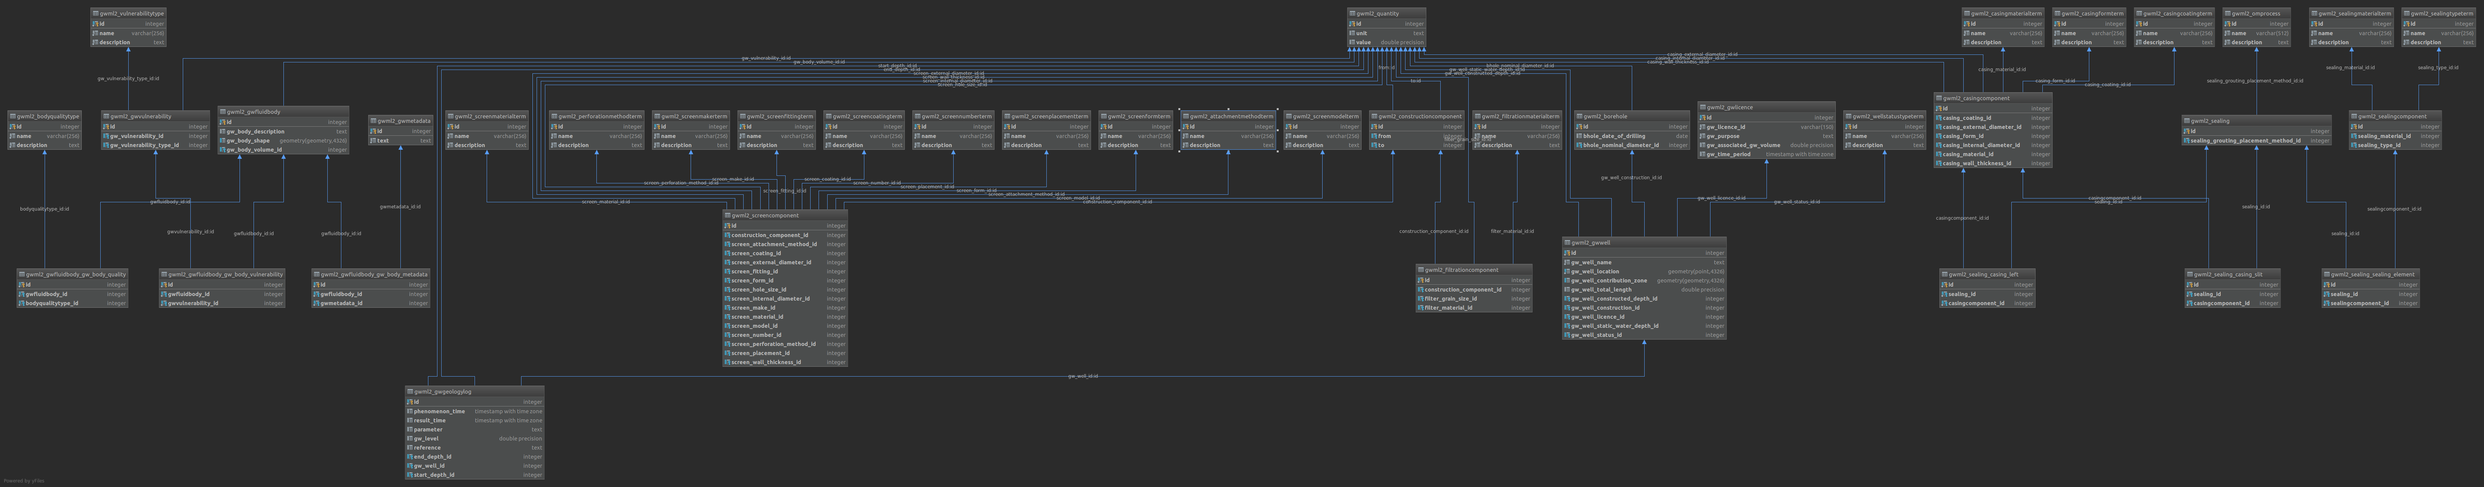
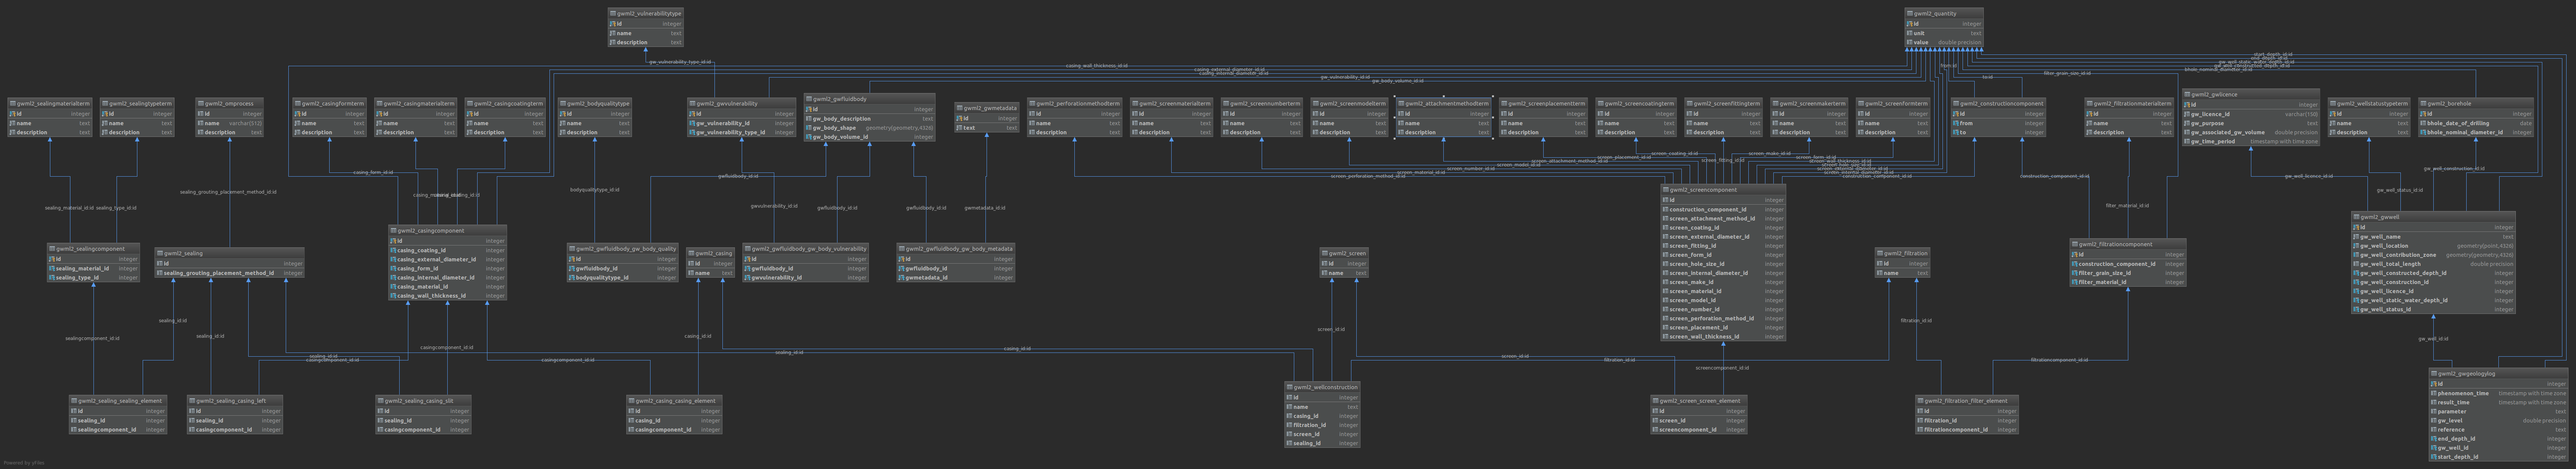
finish well construction models

diff --git a/migrations/0004_casing_filtration_screen_wellconstruction.py b/migrations/0004_casing_filtration_screen_wellconstruction.py
@@ -1,0 +1,49 @@
+# Generated by Django 2.2.12 on 2020-07-02 06:39
+
+from django.db import migrations, models
+import django.db.models.deletion
+
+
+class Migration(migrations.Migration):
+
+    dependencies = [
+        ('gwml2', '0003_auto_20200702_0617'),
+    ]
+
+    operations = [
+        migrations.CreateModel(
+            name='Casing',
+            fields=[
+                ('id', models.AutoField(auto_created=True, primary_key=True, serialize=False, verbose_name='ID')),
+                ('name', models.TextField(blank=True, null=True)),
+                ('casing_element', models.ManyToManyField(blank=True, help_text='Relation between a casing and its parts.', null=True, to='gwml2.CasingComponent', verbose_name='casingElement')),
+            ],
+        ),
+        migrations.CreateModel(
+            name='Filtration',
+            fields=[
+                ('id', models.AutoField(auto_created=True, primary_key=True, serialize=False, verbose_name='ID')),
+                ('name', models.TextField(blank=True, null=True)),
+                ('filter_element', models.ManyToManyField(blank=True, help_text='Relation between a filtration device and its parts.', null=True, to='gwml2.FiltrationComponent', verbose_name='filterElement')),
+            ],
+        ),
+        migrations.CreateModel(
+            name='Screen',
+            fields=[
+                ('id', models.AutoField(auto_created=True, primary_key=True, serialize=False, verbose_name='ID')),
+                ('name', models.TextField(blank=True, null=True)),
+                ('screen_element', models.ManyToManyField(blank=True, help_text='Relation between a screen and its parts.', null=True, to='gwml2.ScreenComponent', verbose_name='screenElement')),
+            ],
+        ),
+        migrations.CreateModel(
+            name='WellConstruction',
+            fields=[
+                ('id', models.AutoField(auto_created=True, primary_key=True, serialize=False, verbose_name='ID')),
+                ('name', models.TextField(blank=True, null=True)),
+                ('casing', models.ForeignKey(blank=True, help_text='A casing is a type of well construction entity.', null=True, on_delete=django.db.models.deletion.SET_NULL, to='gwml2.Casing', verbose_name='Casing')),
+                ('filtration', models.ForeignKey(blank=True, help_text='A sealing is a type of well construction entity.', null=True, on_delete=django.db.models.deletion.SET_NULL, to='gwml2.Filtration', verbose_name='Filtration')),
+                ('screen', models.ForeignKey(blank=True, help_text='A screen is a type of well construction entity.', null=True, on_delete=django.db.models.deletion.SET_NULL, to='gwml2.Screen', verbose_name='Screen')),
+                ('sealing', models.ForeignKey(blank=True, help_text='A sealing is a type of well construction entity.', null=True, on_delete=django.db.models.deletion.SET_NULL, to='gwml2.Sealing', verbose_name='Sealing')),
+            ],
+        ),
+    ]

diff --git a/models/well_construction/well_construction.py b/models/well_construction/well_construction.py
@@ -1,0 +1,34 @@
+from django.contrib.gis.db import models
+from gwml2.models.well_construction.casing import Casing
+from gwml2.models.well_construction.filtration import Filtration
+from gwml2.models.well_construction.screen import Screen
+from gwml2.models.well_construction.sealing import Sealing
+
+
+class WellConstruction(models.Model):
+    """
+    8.1.16 WellConstruction
+    Construction components of the well. These are particularly important when assessing
+    results of pump tests.
+    """
+
+    name = models.TextField(null=True, blank=True)
+    casing = models.ForeignKey(
+        Casing, null=True, blank=True,
+        on_delete=models.SET_NULL, verbose_name='Casing',
+        help_text="A casing is a type of well construction entity.")
+    screen = models.ForeignKey(
+        Screen, null=True, blank=True,
+        on_delete=models.SET_NULL, verbose_name='Screen',
+        help_text="A screen is a type of well construction entity.")
+    filtration = models.ForeignKey(
+        Filtration, null=True, blank=True,
+        on_delete=models.SET_NULL, verbose_name='Filtration',
+        help_text="A sealing is a type of well construction entity.")
+    sealing = models.ForeignKey(
+        Sealing, null=True, blank=True,
+        on_delete=models.SET_NULL, verbose_name='Sealing',
+        help_text="A sealing is a type of well construction entity.")
+
+    def __str__(self):
+        return self.name

diff --git a/models/well_construction/__init__.py b/models/well_construction/__init__.py
@@ -1,7 +1,11 @@
 from gwml2.models.well_construction.borehole import Borehole
+from gwml2.models.well_construction.casing import Casing
 from gwml2.models.well_construction.casing_component import CasingComponent
 from gwml2.models.well_construction.construction_component import ConstructionComponent
+from gwml2.models.well_construction.filtration import Filtration
 from gwml2.models.well_construction.filtration_component import FiltrationComponent
+from gwml2.models.well_construction.screen import Screen
 from gwml2.models.well_construction.screen_component import ScreenComponent
 from gwml2.models.well_construction.sealing import SealingComponent
 from gwml2.models.well_construction.sealing_component import SealingComponent
+from gwml2.models.well_construction.well_construction import WellConstruction

diff --git a/admin/__init__.py b/admin/__init__.py
@@ -3,9 +3,12 @@ from gwml2.admin.universal import *
 from gwml2.admin.fluid_body.gw_fluid_body import *
 from gwml2.admin.well.gw_well import *
 from gwml2.admin.well.gw_geology_log import *
+from gwml2.admin.well_construction.casing import *
 from gwml2.admin.well_construction.casing_component import *
 from gwml2.admin.well_construction.construction_component import *
+from gwml2.admin.well_construction.filtration import *
 from gwml2.admin.well_construction.filtration_component import *
 from gwml2.admin.well_construction.screen_component import *
 from gwml2.admin.well_construction.sealing import *
 from gwml2.admin.well_construction.sealing_component import *
+from gwml2.admin.well_construction.well_construction import *

diff --git a/models/well_construction/filtration.py b/models/well_construction/filtration.py
@@ -1,0 +1,18 @@
+from django.contrib.gis.db import models
+from gwml2.models.well_construction.filtration_component import FiltrationComponent
+
+
+class Filtration(models.Model):
+    """
+    8.1.7 Filtration
+    Collection of filtration components used to filter a fluid body in a well.
+    """
+
+    name = models.TextField(null=True, blank=True)
+    filter_element = models.ManyToManyField(
+        FiltrationComponent, null=True, blank=True,
+        verbose_name='filterElement',
+        help_text="Relation between a filtration device and its parts.")
+
+    def __str__(self):
+        return self.name

diff --git a/models/well_construction/screen.py b/models/well_construction/screen.py
@@ -1,0 +1,18 @@
+from django.contrib.gis.db import models
+from gwml2.models.well_construction.screen_component import ScreenComponent
+
+
+class Screen(models.Model):
+    """
+    8.1.12 Screen
+    Collection of components of the water pump screen.
+    """
+
+    name = models.TextField(null=True, blank=True)
+    screen_element = models.ManyToManyField(
+        ScreenComponent, null=True, blank=True,
+        verbose_name='screenElement',
+        help_text="Relation between a screen and its parts.")
+
+    def __str__(self):
+        return self.name

diff --git a/models/well_construction/casing.py b/models/well_construction/casing.py
@@ -1,0 +1,18 @@
+from django.contrib.gis.db import models
+from gwml2.models.well_construction.casing_component import CasingComponent
+
+
+class Casing(models.Model):
+    """
+    8.1.3 Casing
+    Collection of linings of the borehole.
+    """
+
+    name = models.TextField(null=True, blank=True)
+    casing_element = models.ManyToManyField(
+        CasingComponent, null=True, blank=True,
+        verbose_name='casingElement',
+        help_text="Relation between a casing and its parts.")
+
+    def __str__(self):
+        return self.name

diff --git a/models/well_construction/casing_component.py b/models/well_construction/casing_component.py
@@ -66,3 +66,6 @@ class CasingComponent(models.Model):
         related_name='casing_wall_thickness',
         on_delete=models.SET_NULL, verbose_name='casingWallThickness',
         help_text="Thickness of the wall of the casing.")
+
+    def __str__(self):
+        return '{} - {} - {}'.format(self.casing_material, self.casing_coating, self.casing_form)

diff --git a/admin/well_construction/sealing.py b/admin/well_construction/sealing.py
@@ -4,6 +4,7 @@ from gwml2.models.well_construction.sealing import Sealing
 
 class Admin(admin.ModelAdmin):
     list_display = ('sealing_grouting_placement_method',)
+    filter_horizontal = ('casing_left', 'casing_slit', 'sealing_element')
 
 
 admin.site.register(Sealing, Admin)

diff --git a/admin/well_construction/filtration.py b/admin/well_construction/filtration.py
@@ -1,0 +1,9 @@
+from django.contrib import admin
+from gwml2.models.well_construction.filtration import Filtration
+
+
+class Admin(admin.ModelAdmin):
+    filter_horizontal = ('filter_element',)
+
+
+admin.site.register(Filtration, Admin)

diff --git a/admin/well_construction/casing.py b/admin/well_construction/casing.py
@@ -1,0 +1,9 @@
+from django.contrib import admin
+from gwml2.models.well_construction.casing import Casing
+
+
+class Admin(admin.ModelAdmin):
+    filter_horizontal = ('casing_element',)
+
+
+admin.site.register(Casing, Admin)

diff --git a/admin/well_construction/screen.py b/admin/well_construction/screen.py
@@ -1,0 +1,9 @@
+from django.contrib import admin
+from gwml2.models.well_construction.screen import Screen
+
+
+class Admin(admin.ModelAdmin):
+    filter_horizontal = ('screen_element',)
+
+
+admin.site.register(Screen, Admin)
